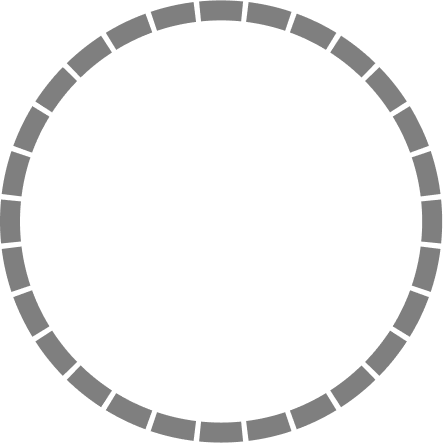
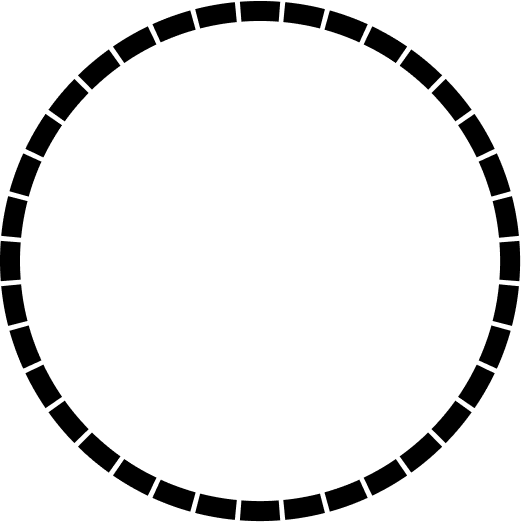
making style changes

Changed region(s): [[0.0, 0.0, 1.0, 0.9977]]

diff --git a/scripts1.js b/scripts1.js
@@ -1,78 +1,3 @@
-//CIRCLE CURSOR W FOLLOWING DOT
-/*const $bigBall = document.querySelector('.cursor__ball--big');
-const $smallBall = document.querySelector('.cursor__ball--small');
-const $hoverables = document.querySelectorAll('.hoverable');
-
-// Listeners
-document.body.addEventListener('mousemove', onMouseMove);
-for (let i = 0; i < $hoverables.length; i++) {
-  $hoverables[i].addEventListener('mouseenter', onMouseHover);
-  $hoverables[i].addEventListener('mouseleave', onMouseHoverOut);
-}
-
-// Move the cursor
-function onMouseMove(e) {
-  TweenMax.to($bigBall, .4, {
-    x: e.clientX - 15,
-    y: e.clientY - 15
-  })
-  TweenMax.to($smallBall, .1, {
-    x: e.clientX - 5,
-    y: e.clientY - 7
-  })
-}
-
-// Hover an element
-function onMouseHover() {
-  TweenMax.to($bigBall, .3, {
-    scale: 4
-  })
-}
-function onMouseHoverOut() {
-  TweenMax.to($bigBall, .3, {
-    scale: 1
-  })
-}*/
-
-
-//CIRCLE NEG CURSOR 
-/*const $cursor = document.querySelector('.cursor__circle');
-const $hover = document.querySelectorAll('a');
-
-
-document.body.addEventListener('mousemove', onMouseMove);
-for (let i = 0; i < $hover.length; i++) { $hover[i].addEventListener('mouseenter', onMouseHover); $hover[i].addEventListener('mouseleave', onMouseHoverOut);
-}
-
-
-function onMouseMove(e) {
-  TweenMax.to($cursor, .4, {
-    x: e.pageX - 16,
-    y: e.pageY - 16
-  })
-}
-
-
-function onMouseHover() {
-  TweenMax.to($cursor, .4, {
-    scale: 3
-  })
-}
-function onMouseHoverOut() {
-  TweenMax.to($cursor, .4, {
-    scale: 1
-  })
-}*/
-   
-
-/*var play_button = document.querySelector(".home");
-var big_ball = document.querySelector(".cursor__ball--big svg circle");
-console.log(play_button);
-play_button.addEventListener("click", function(){
-  alert("hi");
-  big_ball.setAttribute("fill", "white");
-}, false);*/
-
 // How long you want the animation to take, in ms
 const animationDuration = 2000;
 // Calculate how long each ‘frame’ should last if we want to update the animation 60 times per second

diff --git a/products/Products-v2/scripts.js b/products/Products-v2/scripts.js
@@ -28,7 +28,7 @@ var scale1 = 1.4;
 function preload() {
     ran_img = loadImage('assets/RAN.png');
     logo_img = loadImage('assets/Logo.png');
-    circle_img = loadImage('assets/CircleGray.png');
+    circle_img = loadImage('assets/Circle.png');
     blue_circle_img = loadImage('assets/CircleBlue.png');
 }
 
@@ -55,7 +55,7 @@ function windowResized() {
   }
   
 function draw() {
-    background(255);
+    clear();
     if(angle == 360) {
         angle = 0;
     }

diff --git a/products/Products-v2/style.css b/products/Products-v2/style.css
@@ -4,7 +4,8 @@ body {
 
 .container {
     display: flex;
-    justify-content: space-evenly;
+    justify-content: center;
+    align-items: center;
 }
 
 .not-hover {
@@ -21,7 +22,7 @@ body {
 
 .module {
     height: 60vh;
-    width: 30vw;
+    width: 40vw;
 }
 
 .text-svg {

diff --git a/stats.html b/stats.html
@@ -25,7 +25,6 @@
             </div>
         </div>
     </div>
-    <script src="scripts.js"></script>
     <script src="scripts1.js"></script>
 </body>
 </html>
